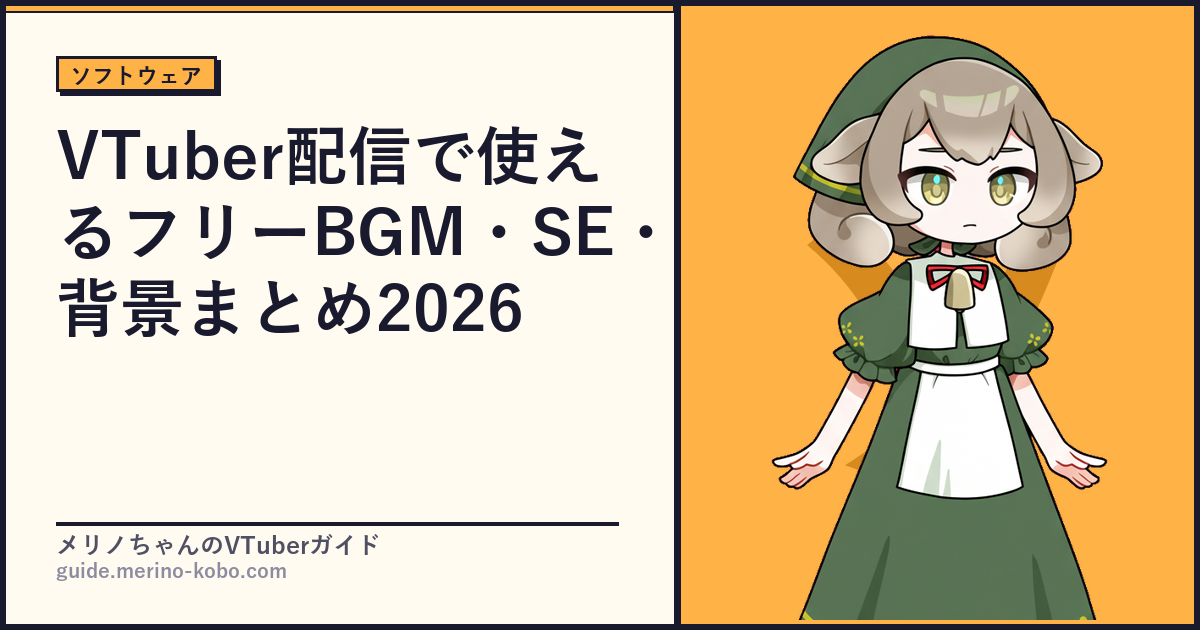
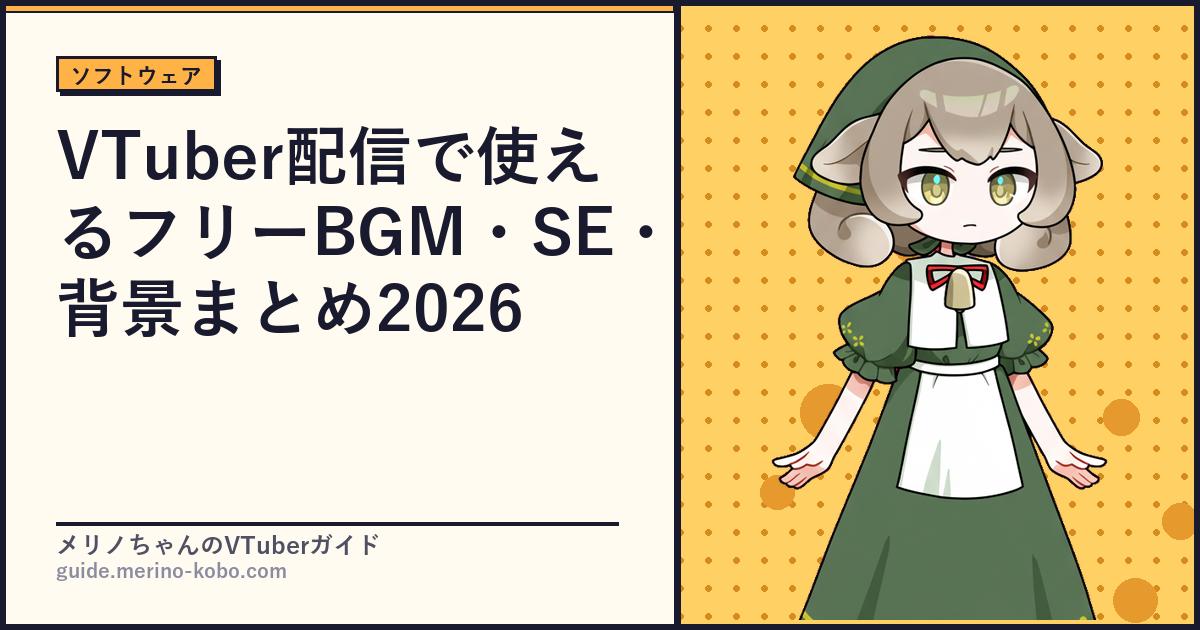
feat: OGP右ゾーンをカテゴリ別イラスト風パターン背景に変更
- model: 星形＋ドット（ラベンダー）
- getting-started: バブル（ミント）
- software: ドット方眼（ピーチ）
- equipment: ハーフトーン斜め縞（イエロー）
- management: コンフェッティ（ミント）

Changed region(s): [[0.555, 0.0, 1.0, 0.9952], [0.74, 0.3921, 0.7708, 0.4222]]

diff --git a/scripts/generate_ogp.py b/scripts/generate_ogp.py
@@ -4,7 +4,9 @@ OGP画像生成スクリプト v3
 Neubrutalism: ハードボーダー・シャドウなしテキスト・ベタ色分割
 """
 import hashlib
+import math
 import os
+import random
 import re
 import sys
 import yaml
@@ -188,6 +190,111 @@ def load_merino(category: str = "getting-started", slug: str = "", merino_overri
         return None
 
 
+# ── カテゴリ別イラスト風背景パターン ─────────────────────
+def _darker(col: tuple, amount: int = 35) -> tuple:
+    return tuple(max(0, c - amount) for c in col)
+
+def _lighter(col: tuple, amount: int = 40) -> tuple:
+    return tuple(min(255, c + amount) for c in col)
+
+def draw_pattern_model(draw: ImageDraw.ImageDraw, col: tuple, x0: int):
+    """model — ラベンダー地に輝く星✦とダイヤ◆"""
+    rng = random.Random(42)
+    bg2 = _lighter(col, 30)
+    # グラデーション風：2色帯を交互に
+    for row in range(0, H, 60):
+        c = bg2 if (row // 60) % 2 == 0 else col
+        draw.rectangle([x0, row, W, row + 60], fill=c)
+    # 星形（4点）
+    dark = _darker(col, 50)
+    for _ in range(22):
+        cx = rng.randint(x0 + 10, W - 10)
+        cy = rng.randint(10, H - 10)
+        r  = rng.randint(6, 18)
+        pts = []
+        for k in range(8):
+            angle = math.pi / 4 * k
+            rad   = r if k % 2 == 0 else r // 2
+            pts.append((cx + rad * math.cos(angle), cy + rad * math.sin(angle)))
+        draw.polygon(pts, fill=dark, outline=None)
+    # 小さいドット
+    for _ in range(30):
+        cx = rng.randint(x0 + 5, W - 5)
+        cy = rng.randint(5, H - 5)
+        r  = rng.randint(3, 7)
+        draw.ellipse([cx - r, cy - r, cx + r, cy + r], fill=_darker(col, 30))
+
+def draw_pattern_getting_started(draw: ImageDraw.ImageDraw, col: tuple, x0: int):
+    """getting-started — ミント地に浮かぶ丸バブル"""
+    rng = random.Random(7)
+    draw.rectangle([x0, 0, W, H], fill=col)
+    for _ in range(28):
+        cx = rng.randint(x0 + 5, W - 5)
+        cy = rng.randint(5, H - 5)
+        r  = rng.randint(10, 55)
+        lgt = _lighter(col, rng.randint(20, 50))
+        draw.ellipse([cx - r, cy - r, cx + r, cy + r], fill=lgt, outline=_darker(col, 20), width=2)
+
+def draw_pattern_software(draw: ImageDraw.ImageDraw, col: tuple, x0: int):
+    """software — ピーチ地にドット方眼"""
+    rng = random.Random(99)
+    draw.rectangle([x0, 0, W, H], fill=_lighter(col, 30))
+    dot_col = _darker(col, 40)
+    step = 28
+    for gx in range(x0, W + step, step):
+        for gy in range(0, H + step, step):
+            draw.ellipse([gx - 3, gy - 3, gx + 3, gy + 3], fill=dot_col)
+    # ランダムに大きいドット
+    for _ in range(10):
+        cx = rng.randint(x0 + 20, W - 20)
+        cy = rng.randint(20, H - 20)
+        r  = rng.randint(12, 28)
+        draw.ellipse([cx - r, cy - r, cx + r, cy + r], fill=_darker(col, 25), outline=None)
+
+def draw_pattern_equipment(draw: ImageDraw.ImageDraw, col: tuple, x0: int):
+    """equipment — イエロー地にハーフトーン斜め縞"""
+    draw.rectangle([x0, 0, W, H], fill=col)
+    stripe = _darker(col, 35)
+    width  = 18
+    gap    = 36
+    for offset in range(-H, W - x0 + H, gap):
+        x1 = x0 + offset
+        pts = [(x1, 0), (x1 + width, 0), (x1 + width + H, H), (x1 + H, H)]
+        draw.polygon(pts, fill=stripe)
+
+def draw_pattern_management(draw: ImageDraw.ImageDraw, col: tuple, x0: int):
+    """management — ミント地にコンフェッティ（小矩形・菱形）"""
+    rng = random.Random(13)
+    draw.rectangle([x0, 0, W, H], fill=col)
+    shapes = ["rect", "diamond", "circle"]
+    colors = [_darker(col, 50), _darker(col, 30), _lighter(col, 40)]
+    for _ in range(40):
+        cx  = rng.randint(x0, W)
+        cy  = rng.randint(0, H)
+        s   = rng.randint(8, 22)
+        shp = rng.choice(shapes)
+        fc  = rng.choice(colors)
+        if shp == "rect":
+            angle_off = rng.randint(-15, 15)
+            draw.rectangle([cx - s, cy - s // 2, cx + s, cy + s // 2], fill=fc)
+        elif shp == "diamond":
+            draw.polygon([(cx, cy - s), (cx + s, cy), (cx, cy + s), (cx - s, cy)], fill=fc)
+        else:
+            draw.ellipse([cx - s // 2, cy - s // 2, cx + s // 2, cy + s // 2], fill=fc)
+
+PATTERN_FUNCS = {
+    "model":           draw_pattern_model,
+    "getting-started": draw_pattern_getting_started,
+    "software":        draw_pattern_software,
+    "equipment":       draw_pattern_equipment,
+    "management":      draw_pattern_management,
+}
+
+def draw_bg_pattern(draw: ImageDraw.ImageDraw, category: str, col: tuple, x0: int):
+    fn = PATTERN_FUNCS.get(category, draw_pattern_getting_started)
+    fn(draw, col, x0)
+
+
 # ── Neubrutalism バッジ描画 ──────────────────────────────
 def draw_badge(draw: ImageDraw.ImageDraw, x: int, y: int,
                text: str, bg: tuple, fnt) -> int:
@@ -215,21 +322,9 @@ def generate_ogp(title: str, category: str, slug: str, merino_override: str = ""
     draw = ImageDraw.Draw(img)
 
     # ─────────────────────────────────────────────────────
-    # 右ゾーン：カテゴリカラー背景
+    # 右ゾーン：カテゴリ別イラスト風パターン背景
     # ─────────────────────────────────────────────────────
-    draw.rectangle([SPLIT, 0, W, H], fill=cat_col)
-
-    # 右ゾーン装飾：大型装飾文字（カテゴリ頭文字）— UNFORGETTABLE要素
-    # frontend-design: 「意図的な」大型タイポグラフィ装飾
-    deco_char = cat_label[0]  # 「モ」「は」「ソ」「機」「運」
-    deco_fnt  = f(360)
-    deco_w    = tw(draw, deco_char, deco_fnt)
-    deco_h    = th(draw, deco_char, deco_fnt)
-    deco_x    = SPLIT + (W - SPLIT - deco_w) // 2
-    deco_y    = (H - deco_h) // 2 - 20
-    # 暗め（カテゴリ色より20暗い）で描画 → 背景装飾感
-    shadow_col = tuple(max(0, c - 40) for c in cat_col)
-    draw.text((deco_x, deco_y), deco_char, font=deco_fnt, fill=shadow_col)
+    draw_bg_pattern(draw, category, cat_col, SPLIT)
 
     # ─────────────────────────────────────────────────────
     # メリノちゃん：右ゾーン中央、ボトムアンカー
